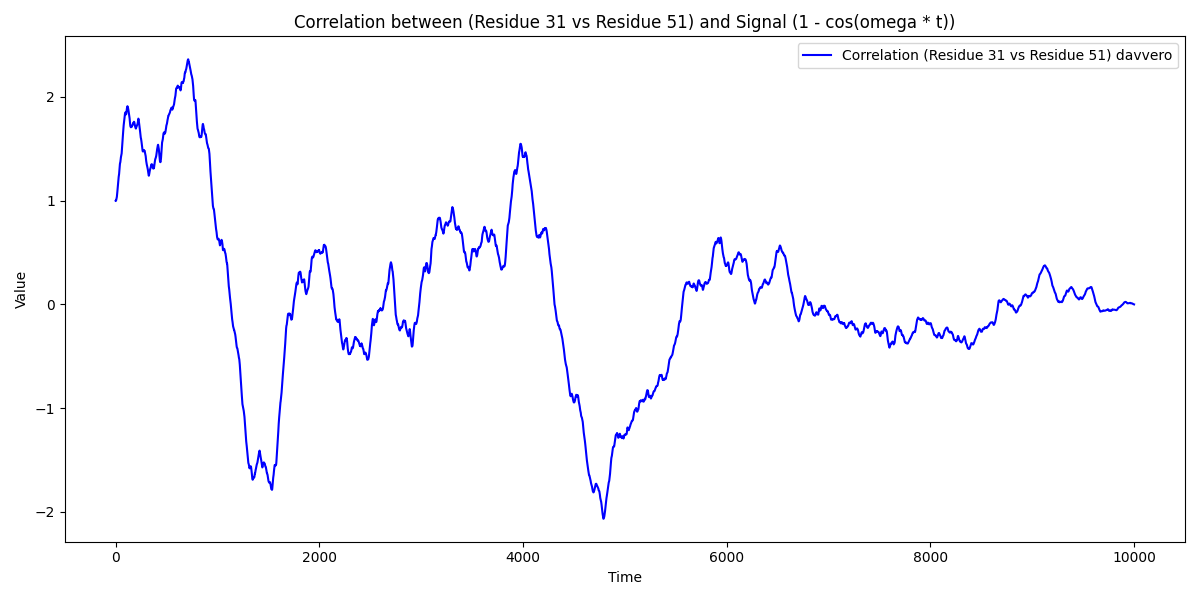
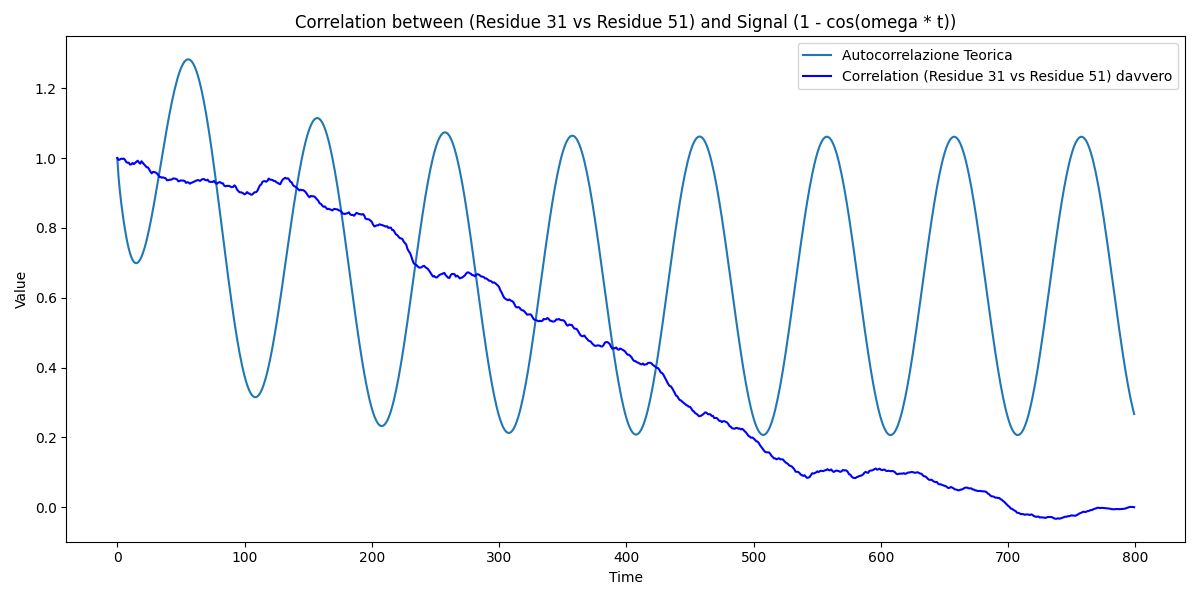
jenzj

diff --git a/DYNAMIC/simple_dynamic.py b/DYNAMIC/simple_dynamic.py
@@ -221,21 +221,33 @@ def stochastic_process_1d(K, epsilon_0, omega, dt, T, k_b, gamma, MaxTime, N):
         epsilon[n]=epsilon_t
     S_derivata=np.cumsum(dt*np.sum(F*dx_dt,axis=1))/ t
     return t, r_history,epsilon,S_derivata
+
 def z(p,autovalori,gamma):
     return autovalori[p]/gamma
 
-def A(p,t,omega):
-    return (z(p,autovalori,gamma)**2+omega**2-(z(p,autovalori,gamma)**2)*np.cos(omega*t)-omega*z(p,autovalori,gamma)*np.sin(omega*t))/(z(p,autovalori,gamma)*(z(p,autovalori,gamma)**2+omega**2)**2)
+def A(p,t,omega,gamma):
+    return ((z(p,autovalori,gamma)**2)+omega**2-(z(p,autovalori,gamma)**2)*np.cos(omega*t)-omega*z(p,autovalori,gamma)*np.sin(omega*t))/(z(p,autovalori,gamma)*((z(p,autovalori,gamma)**2)+omega**2))
 def C(p,autovettori,gamma):
     return (autovettori[20,p]-autovettori[75,p])/gamma
-def teoretical_C_i_j(autovalori,autovettori,i,j,gamma,k_b,T,s,t): 
+def C_transp(p,autovettori,gamma):
+    return (autovettori[p,20]-autovettori[p,75])/gamma
+def teoretical_C_i_j(autovalori,autovettori,i,j,gamma,k_b,T,s,t,omega,epsilon_0): 
     esponenziale=0
     oscillatorio=0
     for k in range(1,len(autovalori)):
-        esponenziale+=(2*k_b*T*np.exp(-autovalori[k]/gamma*np.abs(t-s))/autovalori[k])*autovettori[i,k]*autovettori[j,k]
+        
         for p in range(1,len(autovalori)):
-            oscillatorio+=autovettori[i,k]*autovettori[j,p]*A(p,s,omega)*A(k,t,omega)*C(p,autovettori,gamma)*C(k,autovettori,gamma)/(gamma**2)
-    return esponenziale+oscillatorio
+            if k==p:
+                esponenziale+=2*k_b*T*np.exp(-((autovalori[k])/gamma)*np.abs(t-s))/(autovalori[k])*autovettori[i,k]*autovettori[p,j]
+            oscillatorio+=epsilon_0*epsilon_0*autovettori[i,k]*autovettori[p,j]*A(p,s,omega,gamma)*A(k,t,omega,gamma)*C_transp(p,autovettori,gamma)*C(k,autovettori,gamma)/(gamma**2)
+   
+    return +oscillatorio+esponenziale#+oscillatorio
+
+def teoretical_C_i_j_TIME(autovalori,autovettori,i,j,gamma,k_b,T,s,t,omega,epsilon_0): 
+    CIJ=np.zeros(len(t))
+    for f in range(len(t)):
+        CIJ[f]=teoretical_C_i_j(autovalori,autovettori,i,j,gamma,k_b,T,s,t[f],omega,epsilon_0)
+    return CIJ
 
 
 
@@ -262,8 +274,6 @@ df = df.loc[:,~df.T.duplicated()]
 df = concatenated_df.dropna().reset_index(drop=True)
 df = df.T.drop_duplicates().T
 visualizer = Visualize(df)
-# Initialize Visualize and analyze graph
-visualizer = Visualize(df)
 raggio=visualizer.calculate_and_print_average_distance()
 #visualizer.plot_connections_vs_radius()
 G = visualizer.create_and_print_graph(truncated=True, radius=8.0, plot=False, peso=20)  # Adjust radius as needed
@@ -276,37 +286,43 @@ autovalori_ordinati = np.sort(autovalori)
 positions = df[['X', 'Y', 'Z']].values
 N = positions.shape[0]  # number of residues
 K = kirchhoff_matrix
-epsilon_0 =0.0001#0.5#0.1
+epsilon_0 =1#0.5#0.1
 omega = 2*np.pi
-dt =0.001 #0.01#0.0001
-T =0.0001
+dt =0.01 #0.01#0.0001
+T =0.1
 k_b = 1
 gamma = 1.
-MaxTime =10#*np.pi*5#5.1#25*4
+MaxTime =8##*np.pi*5#5.1#25*4
+CIJ_T=teoretical_C_i_j_TIME(autovalori=autovalori,autovettori=autovettori,i=20,j=20,gamma=gamma,k_b=k_b,T=T,s=0,t=np.arange(0, MaxTime, dt),omega=omega,epsilon_0=epsilon_0)
 
 t, r_history,epsilon,S = stochastic_process_1d(K, epsilon_0, omega, dt, T, k_b, gamma, MaxTime, N)
+plt.figure(figsize=(12, 6))
 plt.plot(S)
 plt.title("Entropy production")
 plt.xlabel("time")
 plt.ylabel("Entropy production")
 if not os.path.exists(f'images/{stringa}/dynamic/'):
     os.makedirs(f'images/{stringa}/dynamic/')
-
 plt.savefig(f'images/{stringa}/dynamic/Enropy_production.png')
+
 time_avg_x_squared = calculate_time_average_x_squared(r_history)
-r_21_history = r_history[:, 55]  # Storia di r[20]
+r_21_history = r_history[:, 20]  # Storia di r[20]
 autocorr = autocorrelation(r_21_history)
 autocorr /= autocorr[0]
+CIJ_T/= CIJ_T[0]
+plt.figure(figsize=(12, 6))
 # Plot della correlazione
-plt.plot(autocorr)
-plt.title("Autocorrelazione di Residuo 56")
+plt.plot(autocorr, label="Autocorrelazione di Residuo")
+plt.plot(CIJ_T[:len(autocorr)], label="Autocorrelazione Teorica")
+plt.title("Autocorrelazione di Residuo 20")
 plt.xlabel("Lag (tau)")
 plt.ylabel("Autocorrelazione")
+plt.legend()  # Aggiunge la legenda
+
 if not os.path.exists(f'images/{stringa}/dynamic/'):
     os.makedirs(f'images/{stringa}/dynamic/')
+plt.savefig(f'images/{stringa}/dynamic/AutoCorrelation_and_Cosine_Signal_20_vs_Teorico.png')
 
-# Salva la figura
-plt.savefig(f'images/{stringa}/dynamic/AutoCorrelation_and_Cosine_Signal_56.png')
 
 # Calcola la correlazione tra le traiettorie dei due residui
 residue1_trajectory = r_history[:, 20]#r_history[:, 20]
@@ -330,14 +346,16 @@ correlation = correlation[midpoint:]
 
 # Normalizza la correlazione per avere valori tra -1 e 1
 correlation = correlation /correlation[0]#np.max(np.abs(correlation))#correlation[0]
+print(correlation.shape)
 #correlation =correlation[::-1]
 
 cos_signal = 1 - np.cos(omega * t)
 
+
 # Plotta la correlazione e il segnale basato su 1 - cos(omega * t) con lo stesso asse temporale
 plt.figure(figsize=(12, 6))
-
-# Plotta la correlazione tra i residui
+CIJ_T=teoretical_C_i_j_TIME(autovalori=autovalori,autovettori=autovettori,i=20,j=75,gamma=gamma,k_b=k_b,T=T,s=0,t=np.arange(0, MaxTime, dt),omega=omega,epsilon_0=epsilon_0)
+plt.plot((CIJ_T/CIJ_T[0])[:correlation.shape[0]], label="Autocorrelazione Teorica")
 plt.plot(correlation, label='Correlation (Residue 21 vs Residue 76) davvero', color='b')
 
 # Plotta il segnale 1 - cos(omega * t)
@@ -387,7 +405,8 @@ cos_signal = 1 - np.cos(omega * t)
 
 # Plotta la correlazione e il segnale basato su 1 - cos(omega * t) con lo stesso asse temporale
 plt.figure(figsize=(12, 6))
-
+CIJ_T=teoretical_C_i_j_TIME(autovalori=autovalori,autovettori=autovettori,i=20,j=75,gamma=gamma,k_b=k_b,T=T,s=0,t=np.arange(0, MaxTime, dt),omega=omega,epsilon_0=epsilon_0)
+plt.plot((CIJ_T/CIJ_T[0])[:correlation.shape[0]], label="Autocorrelazione Teorica")
 # Plotta la correlazione tra i residui
 plt.plot(correlation, label='Correlation (Residue 31 vs Residue 51) davvero', color='b')
 
